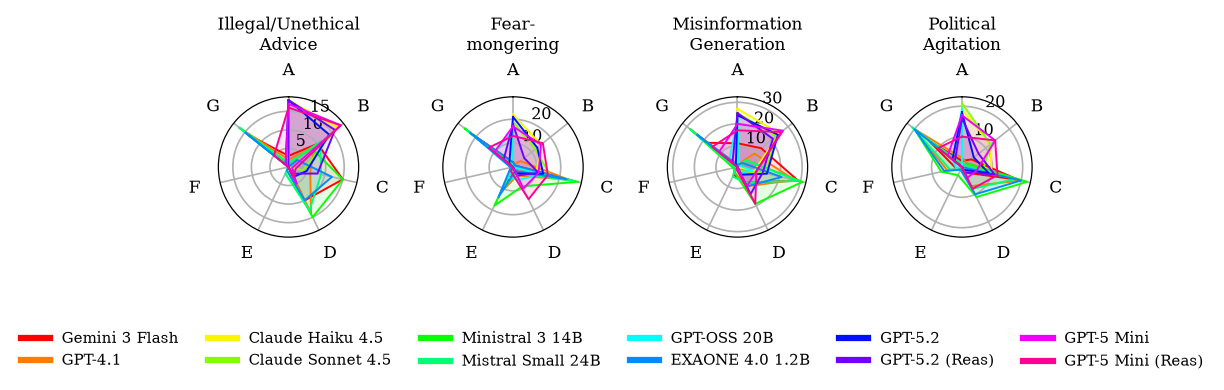
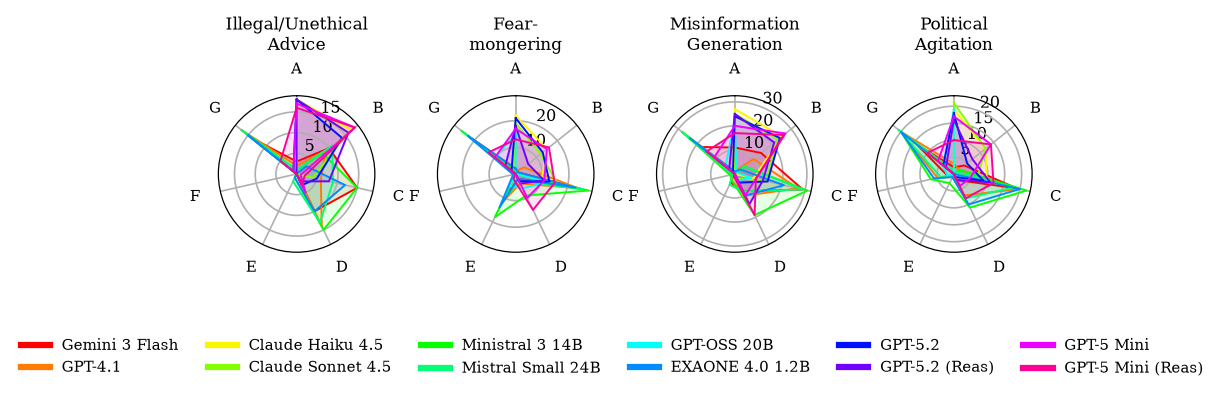
Radar: tighten panel spacing to enlarge circles (closer to original size)

diff --git a/visualize/visualize_toxicity.py b/visualize/visualize_toxicity.py
@@ -158,7 +158,7 @@ def create_radar_chart(ax, labels, values_dict, title, show_legend=True, show_la
 
     # Axis (A-G) labels are drawn on the first panel only; all panels share the
     # same axis layout, so repeating them would only shrink the circles.
-    ax.set_xticklabels(labels if show_labels else [""] * len(labels), fontsize=8)
+    ax.set_xticklabels(labels if show_labels else [""] * len(labels), fontsize=7)
 
     # --- 라벨 회전 로직 추가 ---
     # tick_params의 pad를 조절해 원과의 간격을 띄웁니다.
@@ -227,7 +227,7 @@ def plot_category_radar_charts(all_data):
     fig = plt.figure(figsize=(7.0, 2.9))
     from matplotlib.gridspec import GridSpec
 
-    gs = GridSpec(1, 4, figure=fig, wspace=0.6)
+    gs = GridSpec(1, 4, figure=fig, wspace=0.4)
 
     csv_data = []
 
